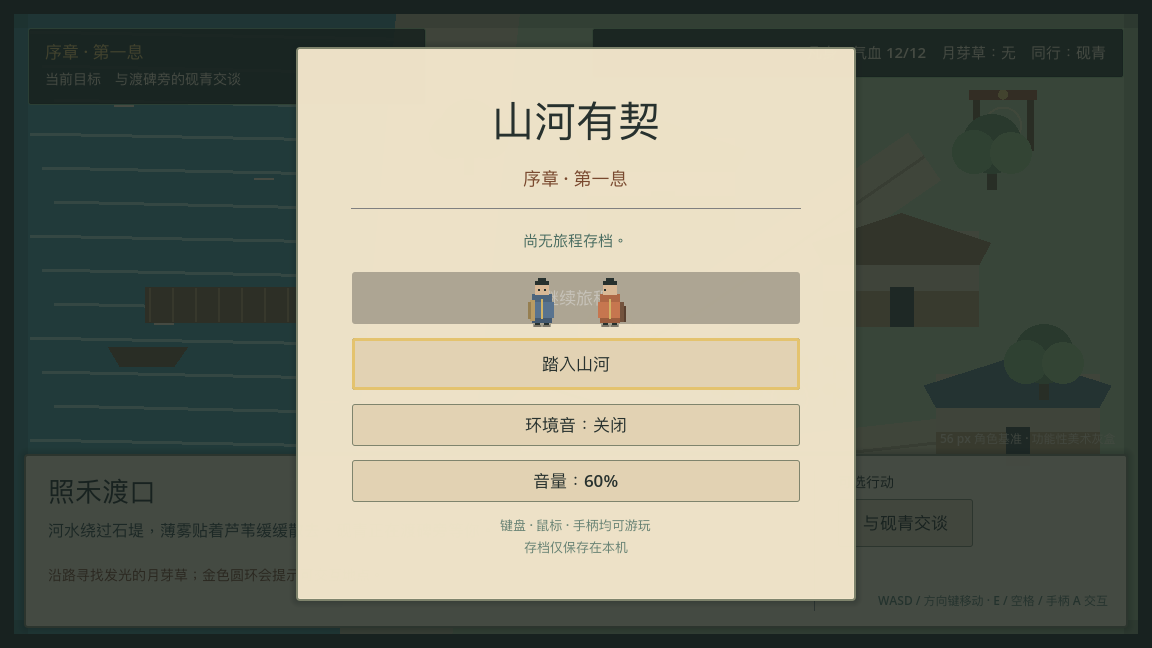
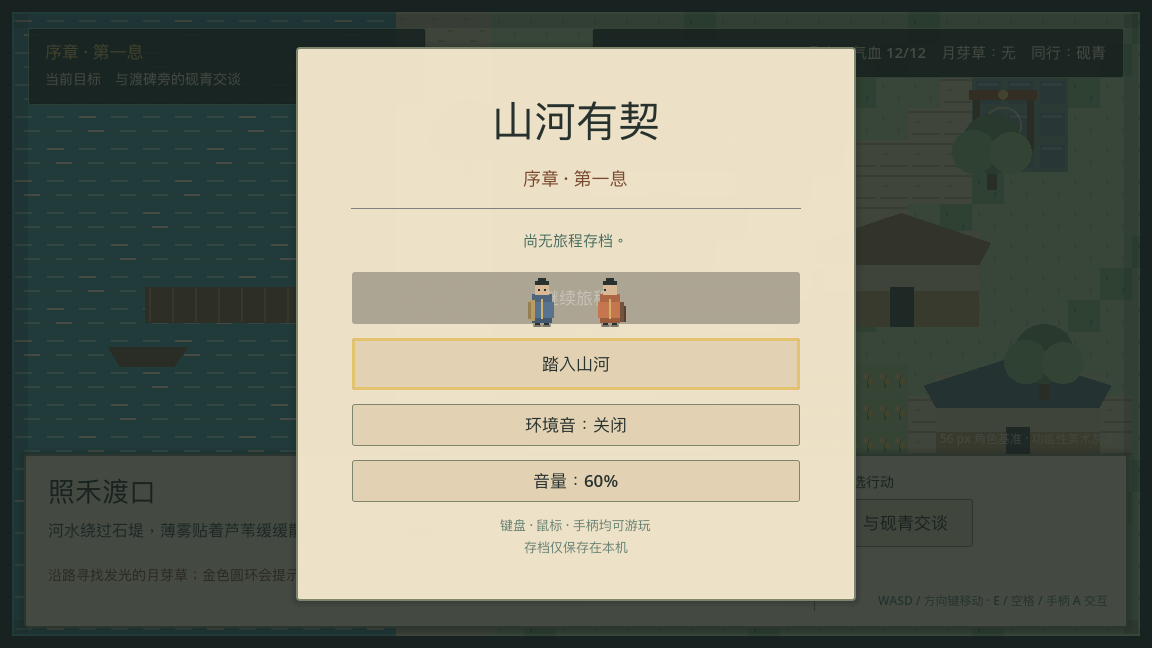
feat: build the ferry ground with tile layers

diff --git a/scripts/check_rpg_assets.py b/scripts/check_rpg_assets.py
@@ -76,6 +76,46 @@ def validate_contract(data: Any) -> list[str]:
             continue
         if actual != (width, height):
             failures.append(f"{file_name}: expected {(width, height)}, got {actual}")
+    map_atlas = data.get("map_atlas")
+    if not isinstance(map_atlas, dict):
+        failures.append("map_atlas must be an object")
+        return failures
+    if map_atlas.get("tile_size_px") != [32, 32]:
+        failures.append("map_atlas.tile_size_px must be [32, 32]")
+    if map_atlas.get("map_size_tiles") != [36, 20]:
+        failures.append("map_atlas.map_size_tiles must be [36, 20]")
+    tile_names = map_atlas.get("tiles")
+    columns = map_atlas.get("columns")
+    rows = map_atlas.get("rows")
+    if not isinstance(columns, int) or columns <= 0:
+        failures.append("map_atlas.columns must be a positive integer")
+        columns = 0
+    if not isinstance(rows, int) or rows <= 0:
+        failures.append("map_atlas.rows must be a positive integer")
+        rows = 0
+    if not isinstance(tile_names, list) or len(tile_names) != columns * rows:
+        failures.append("map_atlas.tiles must name every atlas cell")
+    map_file = map_atlas.get("file")
+    if not isinstance(map_file, str) or Path(map_file).name != map_file:
+        failures.append("map_atlas.file must be a local file name")
+    else:
+        path = ASSET_DIR / map_file
+        if not path.is_file():
+            failures.append(f"missing map atlas: {map_file}")
+        else:
+            try:
+                actual = _png_size(path)
+                if map_atlas.get("tile_size_px") == [32, 32] and columns and rows:
+                    expected_map_size = (
+                        map_atlas["tile_size_px"][0] * columns,
+                        map_atlas["tile_size_px"][1] * rows,
+                    )
+                    if actual != expected_map_size:
+                        failures.append(
+                            f"{map_file}: expected {expected_map_size}, got {actual}"
+                        )
+            except ValueError as error:
+                failures.append(f"{map_file}: {error}")
     return failures
 
 
@@ -87,7 +127,10 @@ def main() -> None:
     failures = validate_contract(data)
     if failures:
         raise SystemExit("RPG asset validation failed:\n" + "\n".join(failures))
-    print(f"RPG pixel assets passed: {len(data['atlases'])} atlases follow the 32x56 contract.")
+    print(
+        "RPG pixel assets passed: "
+        f"{len(data['atlases'])} actors and one 32 px map atlas validated."
+    )
 
 
 if __name__ == "__main__":

diff --git a/docs/ASSET_PROVENANCE.md b/docs/ASSET_PROVENANCE.md
@@ -16,7 +16,7 @@ theme/font behavior. It commits no third-party font, music, map, sound file, or 
 dependency resolved separately from the repository; its official Linux build is checksum-pinned
 by `scripts/setup_rpg`.
 
-## 2026-08-02 · Deterministic protagonist and companion pixel atlases
+## 2026-08-02 · Deterministic character and ferry pixel atlases
 
 `rpg/assets/pixel/protagonist.png` and `yanqing.png` are original 128×224 RGBA atlases generated
 by the project-authored `rpg/tools/generate_pixel_assets.gd`. No model, input image, stock asset,
@@ -24,6 +24,11 @@ external palette, commercial sprite, font, or third-party art library is used. T
 two idle and two walking frames in four directions from rectangles and the confirmed project
 palette. `asset_contract.json` records the 32×56 frame, foot anchor, collision, animation, nearest-
 filter, and pixel-snap contract; `scripts/check_rpg_assets.py` verifies the metadata and PNG headers.
+
+The same generator creates `ferry_tiles.png`, an original 256×32 RGBA strip containing eight
+32 px ground tiles for grass, water, bank, road, moonleaf field, stone, deep grass, and water
+glints. `ferry_tile_layer.gd` composes these into a deterministic 36×20 `TileMapLayer`; no external
+map, texture, pattern, or tile-design input is used.
 
 These are reproducible first-production placeholders intended to validate the `AnimatedSprite2D`
 pipeline. They may be regenerated with the pinned Godot runtime and should be replaced or refined

diff --git a/rpg/README.md b/rpg/README.md
@@ -40,8 +40,9 @@ and pause/resume are exercised as physical input events by `make test-rpg-input`
 亲自走到月芽田采集，再沿路抵达藏泉山门。战斗阶段使用鼠标点击，或用方向键
 切换焦点并按 `Enter`/手柄 A 确认；可请求一次砚青援护，也可沿预留路线撤退。
 战术部署槽可布置一盏引泉石灯，在部署回合与下一回合各削弱一点冲击；气血耗尽
-会由同伴救回渡口，不会形成无法继续的死档。地图环境仍保留运行时绘制以便对照；
-生产 `TileMapLayer` 地图和后续美术精修将在下一批循环加入。
+会由同伴救回渡口，不会形成无法继续的死档。渡口地表已由 36×20 个原创 32 px
+图块组成真正的 `TileMapLayer`；建筑、树木、码头和交互标记暂时保留运行时绘制，
+作为后续前景图块与遮挡层制作时的可复现对照。
 
 开场任务采用同一套近距离交互：先在渡碑旁与砚青交谈，任务目标随后切换为采药，
 取得月芽草后再指向藏泉山门。砚青会在简报完成前原地等候，之后才跟随主角。

diff --git a/docs/DECISIONS.md b/docs/DECISIONS.md
@@ -4,6 +4,16 @@ Use this file for durable decisions. Do not depend on chat transcripts as the on
 
 ## Confirmed
 
+### 2026-08-02 — TileMapLayer ferry-ground baseline
+
+照禾渡口 now composes its ground from a 36×20 grid of original 32 px tiles through Godot's
+`TileMapLayer`. Water, bank, road, moonleaf field, grass, and gate stone are explicit map cells;
+the existing vector-drawn buildings, trees, dock, actors, and interaction markers remain a
+temporary foreground comparison layer. The deterministic normalized exploration domain remains
+authoritative for collision and interactions, preventing display tiles from becoming a second
+gameplay rule set. Every cell, semantic region count, atlas dimension, filter mode, and packed boot
+is covered by the existing quality gates.
+
 ### 2026-08-02 — Reproducible pixel-character production contract
 
 The first in-engine character contract uses a 32 px map grid, 32×56 px actor frames, a fixed

diff --git a/docs/TESTING.md b/docs/TESTING.md
@@ -5,7 +5,7 @@
 | Boundary | Gate | Current result |
 | --- | --- | --- |
 | Deterministic cultivation rules | pytest + branch coverage, minimum 99% | 50 tests; 100% statements and branches |
-| Godot RPG rules and scenes | headless GDScript harness | 214 assertions passing, including pixel-asset animation contracts |
+| Godot RPG rules and scenes | headless GDScript harness | 225 assertions passing, including pixel animation and TileMapLayer contracts |
 | Godot RPG chapter path | independent headless E2E | 17 checks: briefing → exploration → retreat → deployable → battle → breakthrough → resume → replay |
 | Godot keyboard/controller path | physical events + focus assertions | 16 checks: title confirm → interaction → movement → pause → battle focus |
 | Godot RPG package | double PCK export + boot smoke | byte-reproducible pack; headless main scene boot passing |

diff --git a/docs/PROJECT_CONTEXT.md b/docs/PROJECT_CONTEXT.md
@@ -124,7 +124,7 @@ Nakama may be evaluated later if the product grows into match-based content, ext
 
 Expand the executable RPG graybox into a complete 90-minute original chapter:
 
-1. top-down movement, collision, and proximity interaction in 照禾渡口 (implemented);
+1. top-down movement, collision, proximity interaction, and a 32 px TileMapLayer ground in 照禾渡口 (implemented; foreground asset refinement remains);
 2. proximity companion briefing and dynamic quest-state presentation (implemented; longer dialogue remains);
 3. 月芽田 resource choice;
 4. 藏泉山道 warning, retreat, and companion rescue path (implemented; free path exploration remains);

diff --git a/README.md b/README.md
@@ -79,7 +79,7 @@ make test-multiplayer-e2e    # live server + real two-client journey only
 ```
 
 The deterministic multiplayer domain rules have an enforced 99% statement/branch minimum and
-currently reach 100%. Godot behavior is covered by 214 headless rule/scene assertions plus an
+currently reach 100%. Godot behavior is covered by 225 headless rule/scene assertions plus an
 independent 17-check chapter E2E and 16-check physical-input/focus path. The MUD adapter has
 isolated Evennia tests, and its release path
 is exercised through two real concurrent Telnet clients. The preserved browser prototype retains
